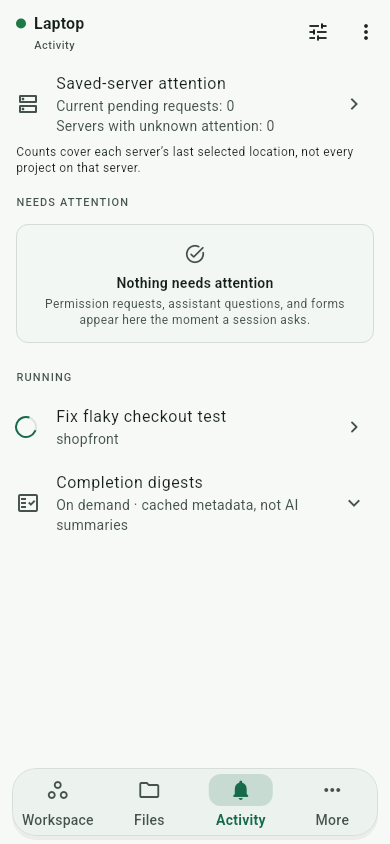
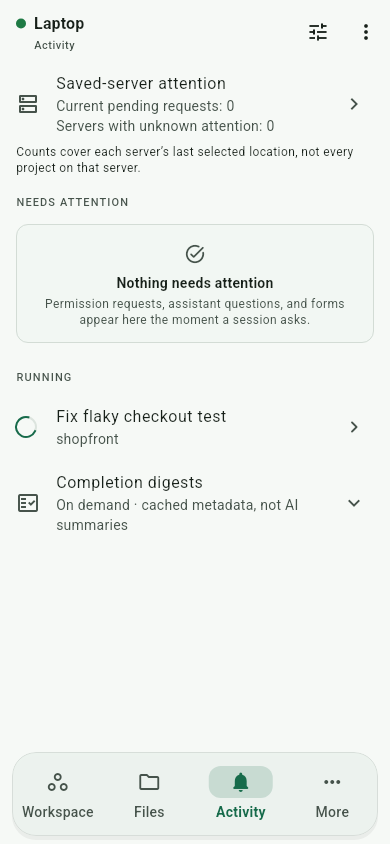
fix(ui): preserve readable navigation at large text sizes [skip ci]

diff --git a/test/home_navigation_test.dart b/test/home_navigation_test.dart
@@ -1,4 +1,6 @@
 import 'package:flutter/material.dart';
+import '../tool/capture/fixtures.dart' show loadCaptureFonts;
+import 'package:flutter/rendering.dart';
 import 'package:flutter/services.dart';
 import 'package:flutter_riverpod/flutter_riverpod.dart';
 import 'package:flutter_test/flutter_test.dart';
@@ -9,6 +11,7 @@ import 'package:opencode_mobile/api/sse.dart';
 import 'package:opencode_mobile/l10n/app_localizations.dart';
 import 'package:opencode_mobile/state/connection.dart';
 import 'package:opencode_mobile/state/profiles.dart';
+import 'package:opencode_mobile/ui/app_theme.dart';
 import 'package:opencode_mobile/ui/screens/activity_screen.dart';
 import 'package:opencode_mobile/ui/screens/home_screen.dart';
 import 'package:opencode_mobile/ui/widgets/glass_surface.dart';
@@ -119,6 +122,70 @@ Future<void> _pumpShell(
 
 void main() {
   TestWidgetsFlutterBinding.ensureInitialized();
+  setUpAll(loadCaptureFonts);
+
+  for (final width in [320.0, 390.0]) {
+    testWidgets(
+      'navigation stays inside its glass surface at $width and 2.5x',
+      (tester) async {
+        tester.view.physicalSize = Size(width, 900);
+        tester.view.devicePixelRatio = 1;
+        addTearDown(tester.view.resetPhysicalSize);
+        addTearDown(tester.view.resetDevicePixelRatio);
+        final controller = await _controller();
+        addTearDown(controller.dispose);
+        await tester.pumpWidget(
+          ProviderScope(
+            overrides: [connProvider.overrideWithValue(controller)],
+            child: MaterialApp(
+              theme: AppTheme.dark(),
+              builder: (context, child) => MediaQuery(
+                data: MediaQuery.of(
+                  context,
+                ).copyWith(textScaler: const TextScaler.linear(2.5)),
+                child: child!,
+              ),
+              localizationsDelegates: AppLocalizations.localizationsDelegates,
+              supportedLocales: AppLocalizations.supportedLocales,
+              home: const HomeScreen(),
+            ),
+          ),
+        );
+        await tester.pumpAndSettle();
+        final dock = tester.getRect(find.byType(GlassSurface));
+        final icon = tester.getRect(find.byIcon(Icons.workspaces_rounded));
+        expect(icon.top, greaterThanOrEqualTo(dock.top + 4));
+        for (final label in ['Workspace', 'Files', 'Activity', 'More']) {
+          final rect = tester.getRect(
+            find.descendant(
+              of: find.byType(NavigationBar),
+              matching: find.text(label),
+            ),
+          );
+          final paragraph = tester.renderObject<RenderParagraph>(
+            find.descendant(
+              of: find.descendant(
+                of: find.byType(NavigationBar),
+                matching: find.text(label),
+              ),
+              matching: find.byType(RichText),
+            ),
+          );
+          final lines = paragraph
+              .getBoxesForSelection(
+                TextSelection(baseOffset: 0, extentOffset: label.length),
+              )
+              .map((box) => box.top)
+              .toSet();
+          expect(lines, hasLength(1), reason: '$label stays on one line');
+          expect(rect.bottom, lessThanOrEqualTo(dock.bottom - 4));
+          expect(rect.left, greaterThanOrEqualTo(dock.left));
+          expect(rect.right, lessThanOrEqualTo(dock.right));
+        }
+        expect(tester.takeException(), isNull);
+      },
+    );
+  }
 
   testWidgets(
     'Files Back clears search, ascends folders, returns home, then guards exit',

diff --git a/lib/ui/screens/home_screen.dart b/lib/ui/screens/home_screen.dart
@@ -247,21 +247,72 @@ class _HomeScreenState extends ConsumerState<HomeScreen>
                 top: false,
                 minimum: const EdgeInsets.fromLTRB(12, 6, 12, 8),
                 child: GlassSurface(
-                  child: NavigationBar(
-                    backgroundColor: Colors.transparent,
-                    animationDuration: GlassSurface.reduceEffects(context)
-                        ? Duration.zero
-                        : const Duration(milliseconds: 220),
-                    selectedIndex: selectedDestination,
-                    onDestinationSelected: (i) =>
-                        _selectTab(destinations[i].id),
-                    destinations: [
-                      for (final entry in destinations) entry.destination,
-                    ],
+                  child: LayoutBuilder(
+                    builder: (context, constraints) => _buildNavigation(
+                      context,
+                      constraints.maxWidth,
+                      [for (final entry in destinations) entry.destination],
+                      selectedDestination,
+                      (index) => _selectTab(destinations[index].id),
+                    ),
                   ),
                 ),
               )
             : null,
+      ),
+    );
+  }
+
+  // Keep destination names intact. Compact navigation labels scale as far as
+  // their equal-width slots allow; content elsewhere keeps the user's full scale.
+  Widget _buildNavigation(
+    BuildContext context,
+    double width,
+    List<NavigationDestination> destinations,
+    int selectedIndex,
+    ValueChanged<int> onSelected,
+  ) {
+    final theme = Theme.of(context);
+    final navigation = theme.navigationBarTheme;
+    var maxScale = 2.0;
+    var labelHeight = 0.0;
+    for (final destination in destinations) {
+      for (final states in [
+        <WidgetState>{},
+        {WidgetState.selected},
+      ]) {
+        final painter = TextPainter(
+          text: TextSpan(
+            text: destination.label,
+            style:
+                navigation.labelTextStyle?.resolve(states) ??
+                theme.textTheme.labelMedium,
+          ),
+          textDirection: Directionality.of(context),
+        )..layout();
+        final fit = (width / destinations.length - 8) / painter.width;
+        if (fit < maxScale) maxScale = fit;
+        if (painter.height > labelHeight) labelHeight = painter.height;
+        painter.dispose();
+      }
+    }
+    maxScale = maxScale.clamp(1.0, 2.0);
+    final scaler = MediaQuery.textScalerOf(
+      context,
+    ).clamp(maxScaleFactor: maxScale);
+    final requiredHeight = 48 + 4 + scaler.scale(labelHeight) + 16;
+    final baseHeight = navigation.height ?? 80.0;
+    return MediaQuery.withClampedTextScaling(
+      maxScaleFactor: maxScale,
+      child: NavigationBar(
+        height: requiredHeight > baseHeight ? requiredHeight : baseHeight,
+        backgroundColor: Colors.transparent,
+        animationDuration: GlassSurface.reduceEffects(context)
+            ? Duration.zero
+            : const Duration(milliseconds: 220),
+        selectedIndex: selectedIndex,
+        onDestinationSelected: onSelected,
+        destinations: destinations,
       ),
     );
   }
